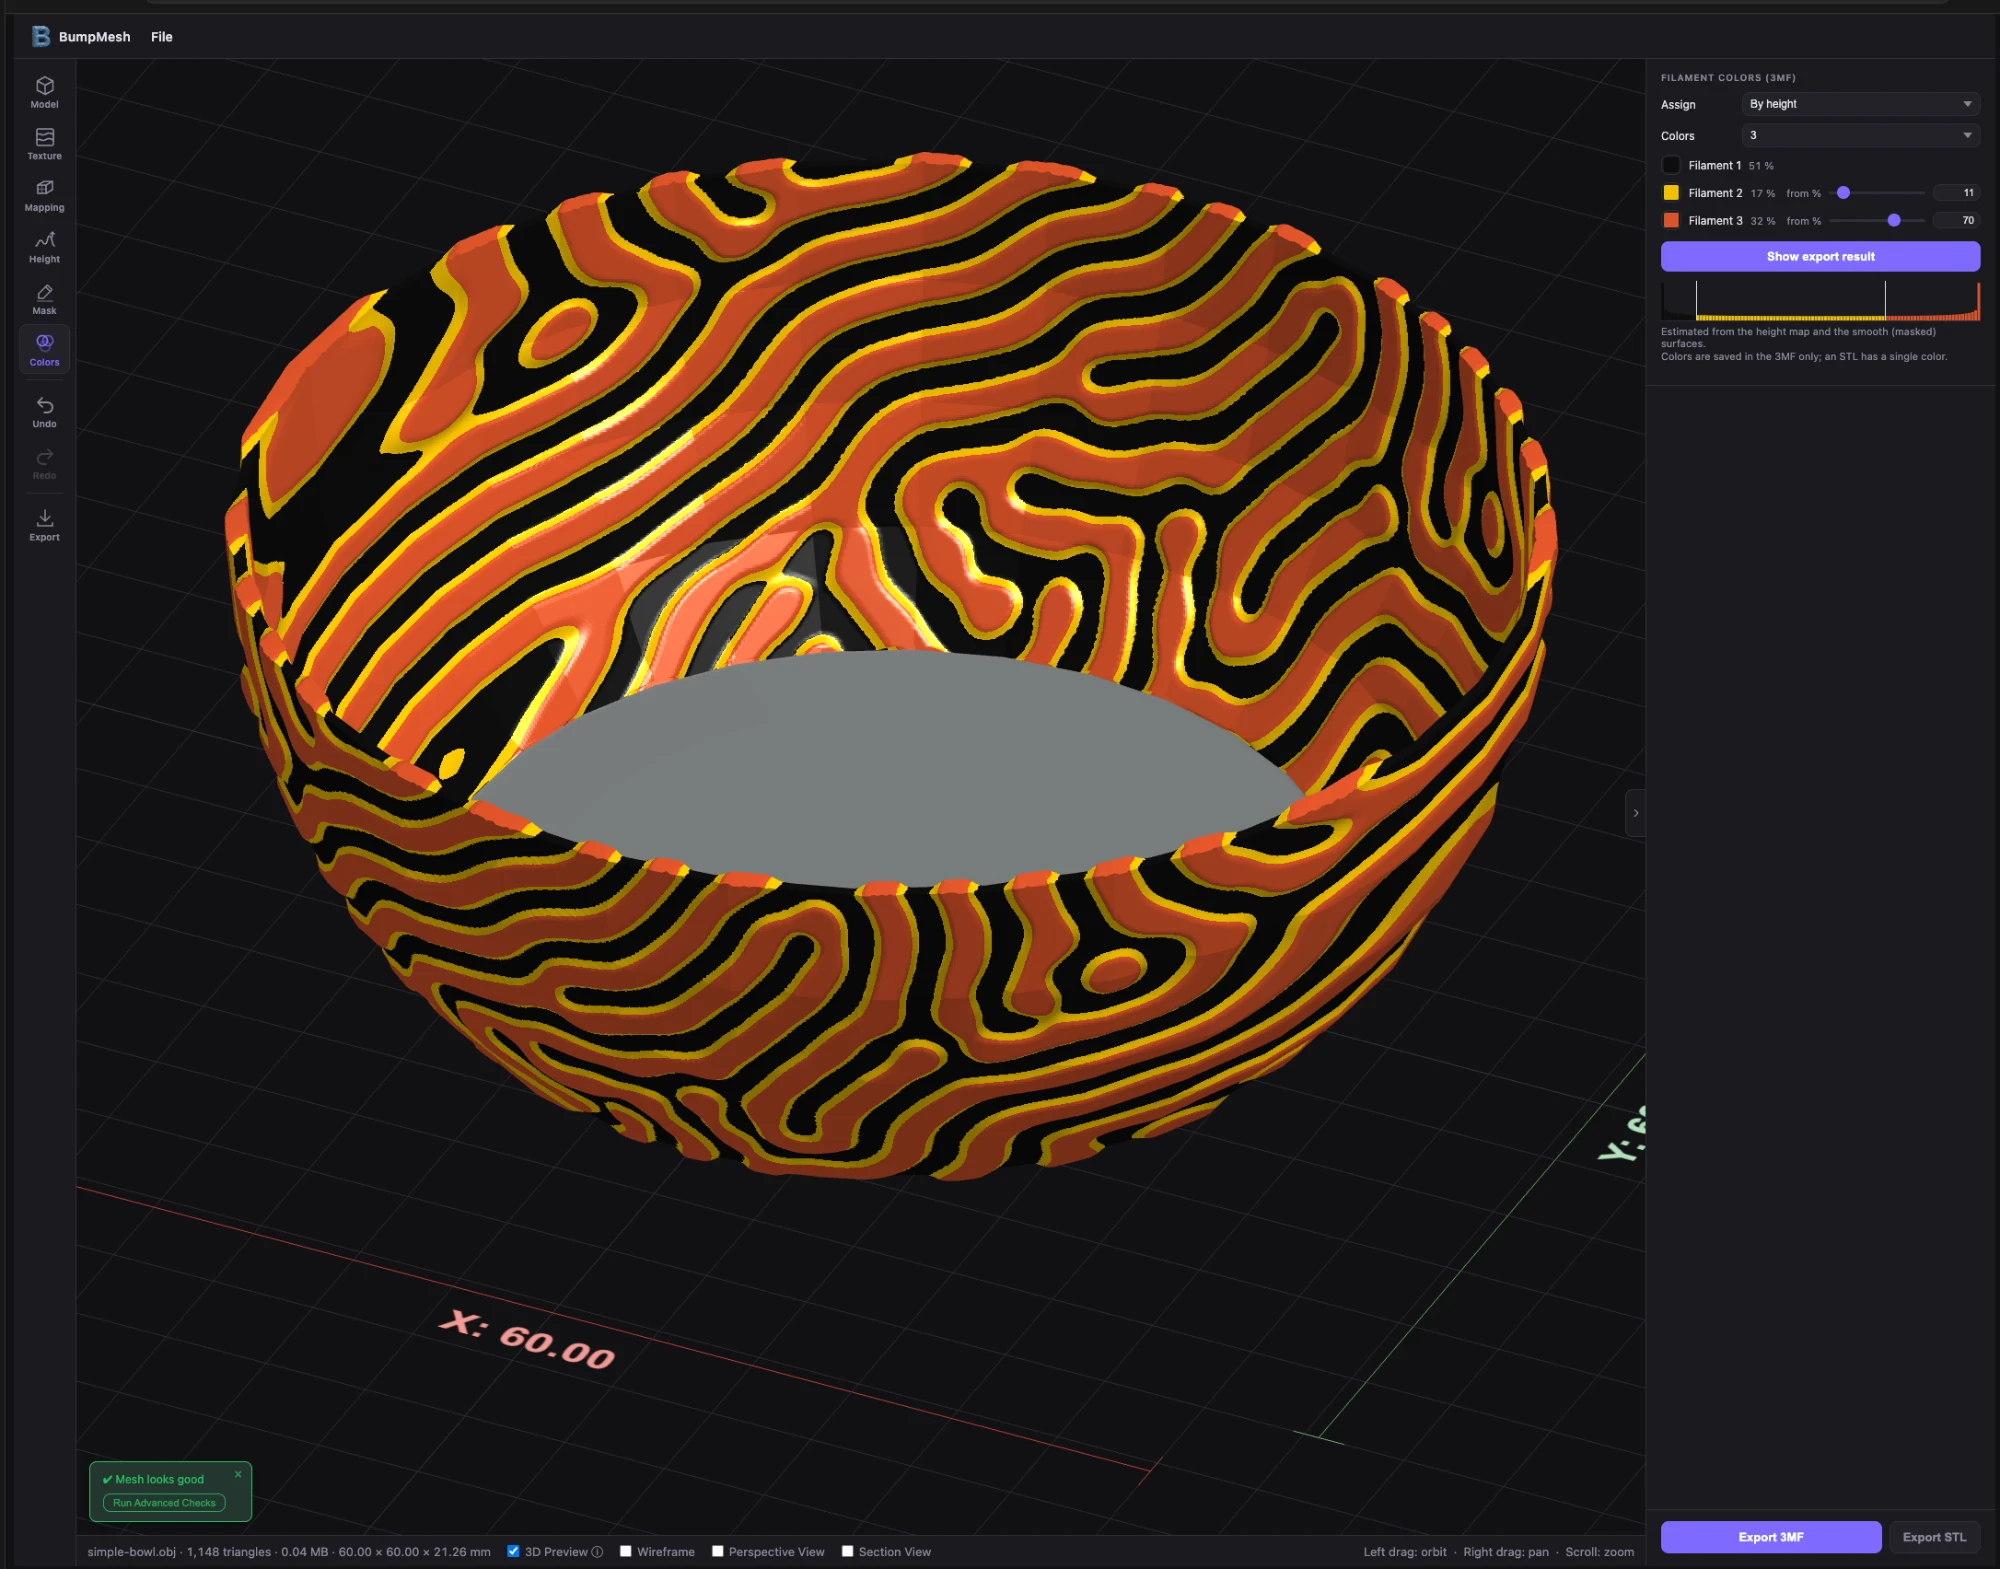
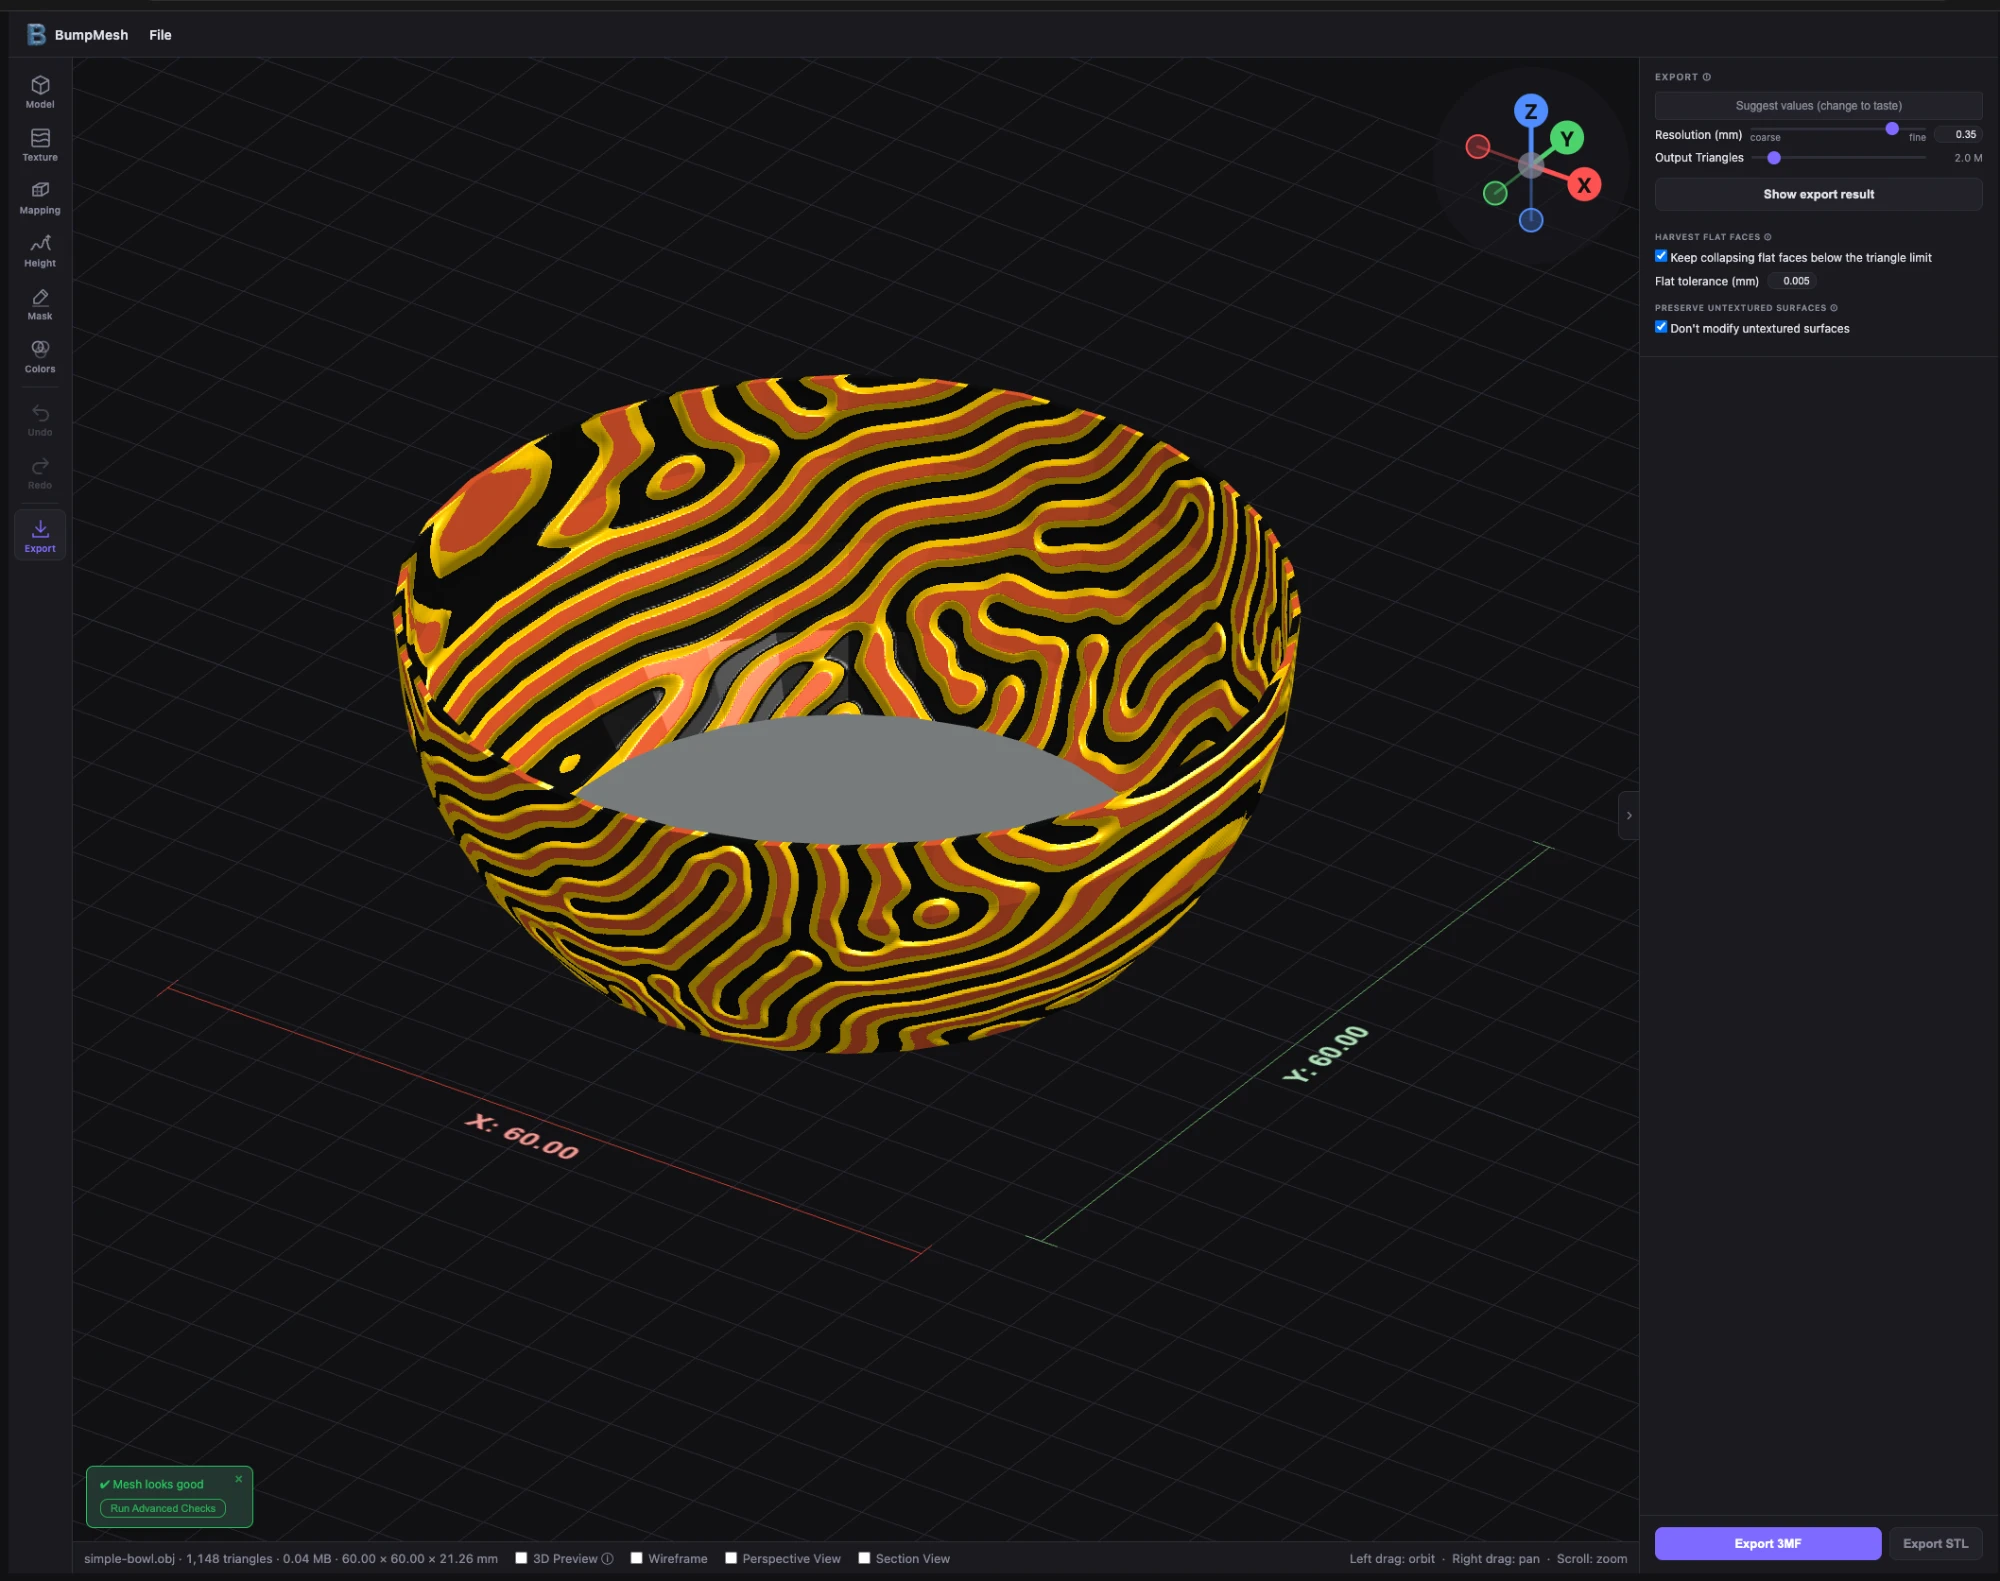
View gizmo: clickable X/Y/Z axes in the top right replace the ground axes; README screenshot updated

diff --git a/js/viewer.js b/js/viewer.js
@@ -548,6 +548,7 @@ export function initViewer(canvas) {
 
   // Rotation gizmo interaction
   _initGizmoInteraction();
+  _buildViewGizmo(renderer.domElement.parentElement);
   _initScaleGizmoInteraction();
 
   _section = new SectionController({
@@ -589,10 +590,12 @@ export function initViewer(canvas) {
     requestAnimationFrame(animate);
     if (_turntable) _stepTurntable();
     if (_spaceMouse.index !== -1) _stepSpaceMouse();
+    if (_viewAnim) _stepViewAnim();
     controls.update();
     if (_needsRender) {
       _needsRender = false;
       renderer.render(scene, camera);
+      _updateViewGizmo();
     }
   })();
 }
@@ -857,14 +860,8 @@ export function loadGeometry(geometry, material, { keepCamera = false } = {}) {
   sphere.copy(geometry.boundingSphere);
   if (!keepCamera) fitCamera(sphere);
 
-  // Place coordinate axes away from the part corner
-  if (axesGroup) { disposeGroup(axesGroup); scene.remove(axesGroup); }
-  const axisSize = sphere.radius * 0.30;
-  axesGroup = buildAxesIndicator(axisSize);
-  // Offset from the bounding box corner by ~1 axis-length so it doesn't overlap the mesh
-  const axisPad = axisSize * 1.8;
-  axesGroup.position.set(box.min.x - axisPad, box.min.y - axisPad, groundZ);
-  scene.add(axesGroup);
+  // The axes live in the view gizmo (top right of the viewport) now.
+  if (axesGroup) { disposeGroup(axesGroup); scene.remove(axesGroup); axesGroup = null; }
 
   // Bounding-box dimension annotations on the ground plane
   if (dimensionGroup) { disposeGroup(dimensionGroup); scene.remove(dimensionGroup); }
@@ -987,6 +984,123 @@ export function isSoftwareRendering() {
 }
 
 export function requestRender() { _needsRender = true; }
+
+// ── View gizmo (top right of the viewport) ───────────────────────────────────
+// The world axes as seen by the camera. Click an axis end to look along it
+// (X, Y from the side, Z from the top; the faint ends show the opposite side),
+// click the centre to go back to the 3D view. The camera keeps its target and
+// distance and swings there in a short animation.
+
+const _VG_SIZE = 104, _VG_C = _VG_SIZE / 2, _VG_LEN = 34;
+const _VG_AXES = [
+  { k: 'x', v: new THREE.Vector3(1, 0, 0), color: '#ff5050' },
+  { k: 'y', v: new THREE.Vector3(0, 1, 0), color: '#4cd26b' },
+  { k: 'z', v: new THREE.Vector3(0, 0, 1), color: '#4f8dff' },
+];
+const _VG_HOME = new THREE.Vector3(0.6, -1.2, 0.8).normalize();   // fitCamera's direction
+let _vg = null;
+let _viewAnim = null;   // { from, to, t0, dist }
+
+function _buildViewGizmo(container) {
+  if (!container || _vg) return;
+  const NS = 'http://www.w3.org/2000/svg';
+  const svg = document.createElementNS(NS, 'svg');
+  svg.setAttribute('class', 'view-gizmo');
+  svg.setAttribute('viewBox', `0 0 ${_VG_SIZE} ${_VG_SIZE}`);
+  svg.setAttribute('width', _VG_SIZE * 2);    // drawn at twice the viewBox size
+  svg.setAttribute('height', _VG_SIZE * 2);
+  const parts = [];
+  for (const a of _VG_AXES) {
+    for (const sign of [1, -1]) {
+      const g = document.createElementNS(NS, 'g');
+      g.setAttribute('class', `vg-end ${sign > 0 ? 'vg-pos' : 'vg-neg'}`);
+      g.setAttribute('role', 'button');
+      const label = (sign > 0 ? '' : '−') + a.k.toUpperCase();
+      g.setAttribute('aria-label', `View from ${label}`);
+      const title = document.createElementNS(NS, 'title');
+      title.textContent = `View from ${label}`;
+      const line = document.createElementNS(NS, 'line');
+      line.setAttribute('stroke', a.color);
+      line.setAttribute('stroke-width', sign > 0 ? '2.5' : '1.5');
+      line.setAttribute('stroke-linecap', 'round');
+      if (sign < 0) line.setAttribute('opacity', '0.45');
+      const dot = document.createElementNS(NS, 'circle');
+      dot.setAttribute('r', sign > 0 ? '9' : '6');
+      dot.setAttribute('fill', a.color);
+      if (sign < 0) { dot.setAttribute('fill-opacity', '0.3'); dot.setAttribute('stroke', a.color); }
+      g.append(title, line, dot);
+      if (sign > 0) {
+        const txt = document.createElementNS(NS, 'text');
+        txt.textContent = a.k.toUpperCase();
+        txt.setAttribute('text-anchor', 'middle');
+        txt.setAttribute('dominant-baseline', 'central');
+        g.append(txt);
+      }
+      g.addEventListener('click', (e) => { e.stopPropagation(); _viewFrom(a.v.clone().multiplyScalar(sign)); });
+      svg.append(g);
+      parts.push({ g, line, dot, txt: g.querySelector('text'), v: a.v, sign });
+    }
+  }
+  const home = document.createElementNS(NS, 'circle');
+  home.setAttribute('class', 'vg-home');
+  home.setAttribute('cx', _VG_C); home.setAttribute('cy', _VG_C); home.setAttribute('r', '7');
+  home.setAttribute('role', 'button');
+  home.setAttribute('aria-label', '3D view');
+  const homeTitle = document.createElementNS(NS, 'title');
+  homeTitle.textContent = '3D view';
+  home.append(homeTitle);
+  home.addEventListener('click', (e) => { e.stopPropagation(); _viewFrom(_VG_HOME.clone()); });
+  svg.append(home);
+  // Keep pointer events on the gizmo from starting an orbit or a paint stroke.
+  for (const ev of ['pointerdown', 'mousedown', 'wheel', 'dblclick']) svg.addEventListener(ev, e => e.stopPropagation());
+  container.append(svg);
+  _vg = { svg, parts, home };
+  _updateViewGizmo();
+}
+
+const _vgQ = new THREE.Quaternion(), _vgV = new THREE.Vector3();
+function _updateViewGizmo() {
+  if (!_vg || !camera) return;
+  _vgQ.copy(camera.quaternion).invert();
+  const order = [];
+  for (const p of _vg.parts) {
+    _vgV.copy(p.v).multiplyScalar(p.sign).applyQuaternion(_vgQ);
+    const x = _VG_C + _vgV.x * _VG_LEN, y = _VG_C - _vgV.y * _VG_LEN;
+    p.line.setAttribute('x1', _VG_C); p.line.setAttribute('y1', _VG_C);
+    p.line.setAttribute('x2', x); p.line.setAttribute('y2', y);
+    p.dot.setAttribute('cx', x); p.dot.setAttribute('cy', y);
+    if (p.txt) { p.txt.setAttribute('x', x); p.txt.setAttribute('y', y + 0.5); }
+    order.push([_vgV.z, p.g]);
+  }
+  // Ends pointing away from the viewer are drawn first, so the near ones stay clickable.
+  order.sort((a, b) => a[0] - b[0]);
+  for (const [, g] of order) _vg.svg.insertBefore(g, _vg.home);
+}
+
+/** Swing the camera to look at the target from direction dir (unit vector). */
+function _viewFrom(dir) {
+  if (!camera) return;
+  // Straight up/down would meet the orbit's pole clamp: tilt a hair towards −Y.
+  if (Math.abs(dir.z) > 0.999) dir.set(0, -Math.sin(_POLAR_EPS * 2), Math.sign(dir.z) * Math.cos(_POLAR_EPS * 2));
+  const off = camera.position.clone().sub(controls.target);
+  const dist = off.length() || 100;
+  _viewAnim = { from: off.normalize(), to: dir.normalize(), t0: performance.now(), dist };
+}
+
+function _stepViewAnim() {
+  const a = _viewAnim;
+  const t = Math.min(1, (performance.now() - a.t0) / 350);
+  const e = t < 0.5 ? 2 * t * t : 1 - Math.pow(-2 * t + 2, 2) / 2;   // ease in-out
+  const q = new THREE.Quaternion().setFromUnitVectors(a.from, a.to);
+  const qt = new THREE.Quaternion().slerp(q, e);
+  const dir = a.from.clone().applyQuaternion(qt);
+  camera.position.copy(controls.target).addScaledVector(dir, a.dist);
+  camera.up.set(0, 0, 1);
+  camera.lookAt(controls.target);
+  camera.updateMatrixWorld();
+  _needsRender = true;
+  if (t >= 1) _viewAnim = null;
+}
 
 export function getRenderer()  { return renderer; }
 export function getCamera()    { return camera; }

diff --git a/style.css b/style.css
@@ -393,6 +393,29 @@ main.sidebar-collapsed .rail-btn.active { background: none; border-color: transp
 .scale-reset-btn:hover:not(:disabled) { color: var(--accent); border-color: var(--accent); }
 .scale-reset-btn:disabled { opacity: 0.4; cursor: default; }
 
+/* ── View gizmo (js/viewer.js _buildViewGizmo) ───────────────────────── */
+.view-gizmo {
+  position: absolute;
+  top: 10px;
+  right: 10px;
+  z-index: 4;
+  border-radius: 50%;
+  background: color-mix(in srgb, var(--surface) 55%, transparent);
+  transition: background 0.15s;
+  user-select: none;
+}
+.view-gizmo:hover { background: color-mix(in srgb, var(--surface) 85%, transparent); }
+.view-gizmo .vg-end,
+.view-gizmo .vg-home { cursor: pointer; }
+.view-gizmo .vg-end text {
+  font: 700 11px system-ui, sans-serif;
+  fill: #111;
+  pointer-events: none;
+}
+.view-gizmo .vg-end:hover circle { stroke: #fff; stroke-width: 2; }
+.view-gizmo .vg-home { fill: var(--text-muted); opacity: 0.7; }
+.view-gizmo .vg-home:hover { fill: var(--accent); opacity: 1; }
+
 /* ── Main layout ─────────────────────────────────────────────────────── */
 main {
   position: relative;

diff --git a/README.md b/README.md
@@ -4,9 +4,9 @@
 >
 > **Try this fork:** **https://macpit.github.io/stlTexturizer/** (updated automatically on every push)
 
-![BumpMesh fork: tool rail on the left, bowl colored by height with three filaments, filament settings on the right](docs/screenshot-color-by-height.webp)
+![BumpMesh fork: tool rail on the left, bowl colored by height with three filaments, view gizmo top right, Export step on the right](docs/screenshot-color-by-height.webp)
 
-*Color by height with three filaments, shown in the 3D preview the way the slicer will print it.*
+*Color by height with three filaments, shown the way the slicer will print it. Left the tool rail, top right the view gizmo, right the Export step.*
 
 ## Why a fork?
 
@@ -36,6 +36,7 @@ The list grows with every change; newest first within each group.
 - **Advanced / Beta dissolved** — every option moved to the step where it acts; long explanations moved into ⓘ tooltips.
 - **Export 3MF first** — 3MF is the main export button (it carries the colors), STL stays available next to it; both sit at the bottom of the Export step.
 - **Scale** in the Model step, like the slicers: percent or size in mm per axis, uniform toggle, reset, and **drag handles in the 3D view** (corners scale uniformly, X/Y/Z handles per axis).
+- **View gizmo** in the top right of the 3D view: click X, Y or Z to look along that axis (the faint ends show the opposite side), click the centre to return to the 3D view. Replaces the axes on the ground.
 - **Undo/redo for model edits** — scale, rotate and place on face can be undone like any setting.
 - **Cleaner screen** — no support banner or footer links in the sidebar, no welcome popup on start (still under Info ▸ What's New), 3D Preview moved to the viewport footer, larger footer text.
 
